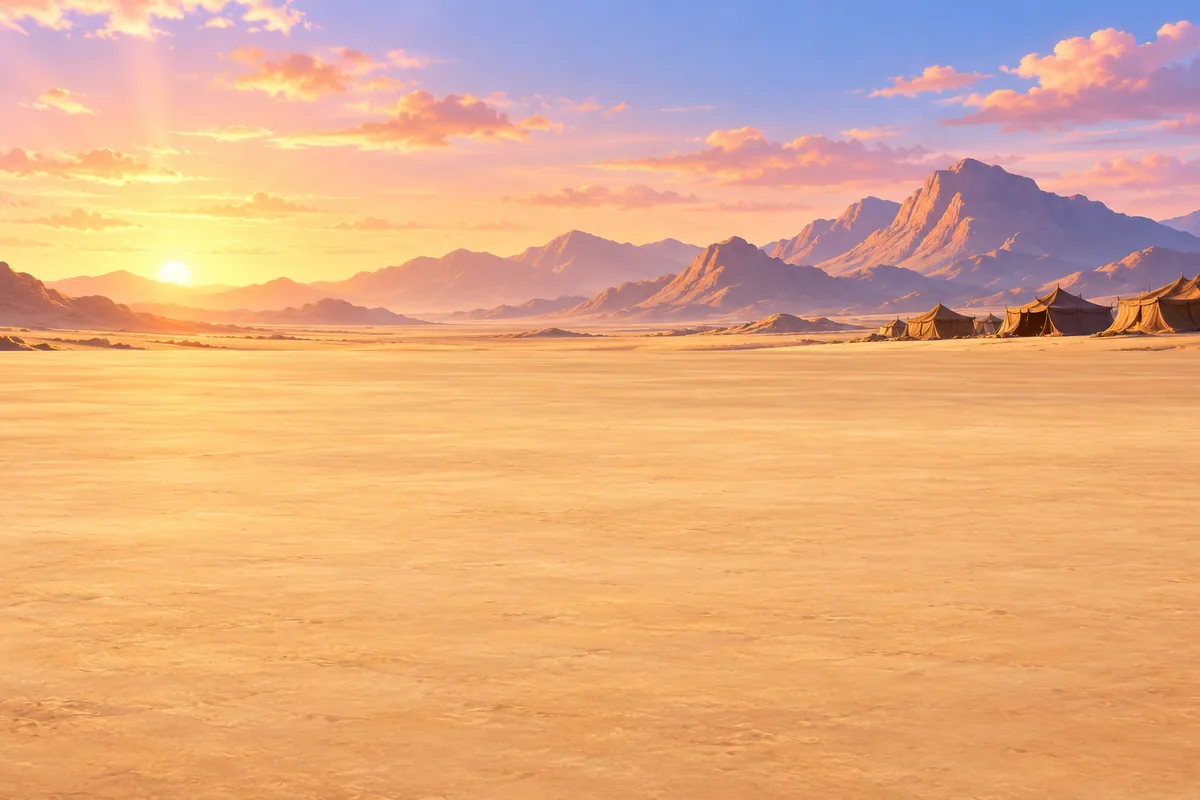
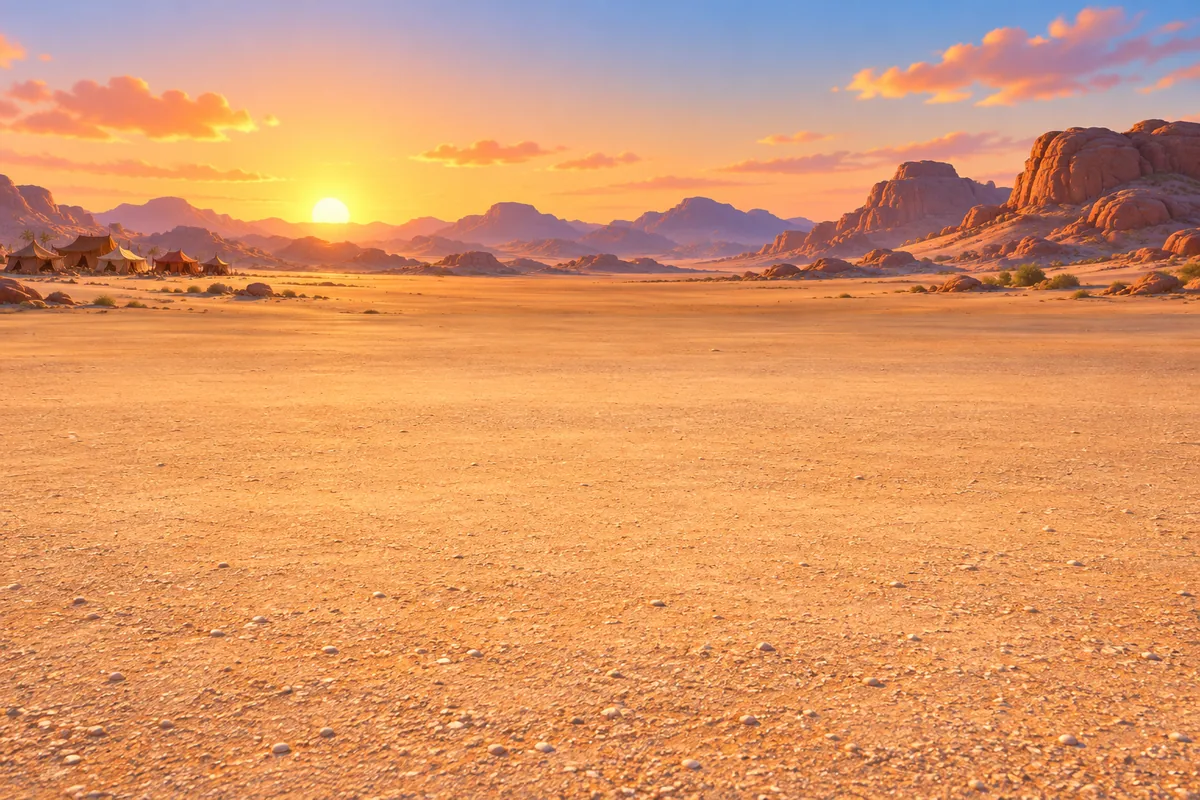
Game backdrops chosen by Anton: Jacob 10 B, Moses 11 B and 12 B, all others A; PACK_VERSION 103; not pushed

diff --git a/src/utils/journeyFiles.ts b/src/utils/journeyFiles.ts
@@ -9,7 +9,7 @@ import { MUSIC_FILES, SFX_FILES } from '@/utils/sfxFiles'
  * The version of the downloaded packs: raise it whenever a picture or sound of the adventures is replaced, so that devices that have
  * the old files load them again (the packs are served from the device without asking the net).
  */
-export const PACK_VERSION = 102
+export const PACK_VERSION = 103
 
 /** The painted signs and buttons that every journey uses (everything in `public/images/abenteuer/ui`). */
 export const ADVENTURE_UI_FILES = [
